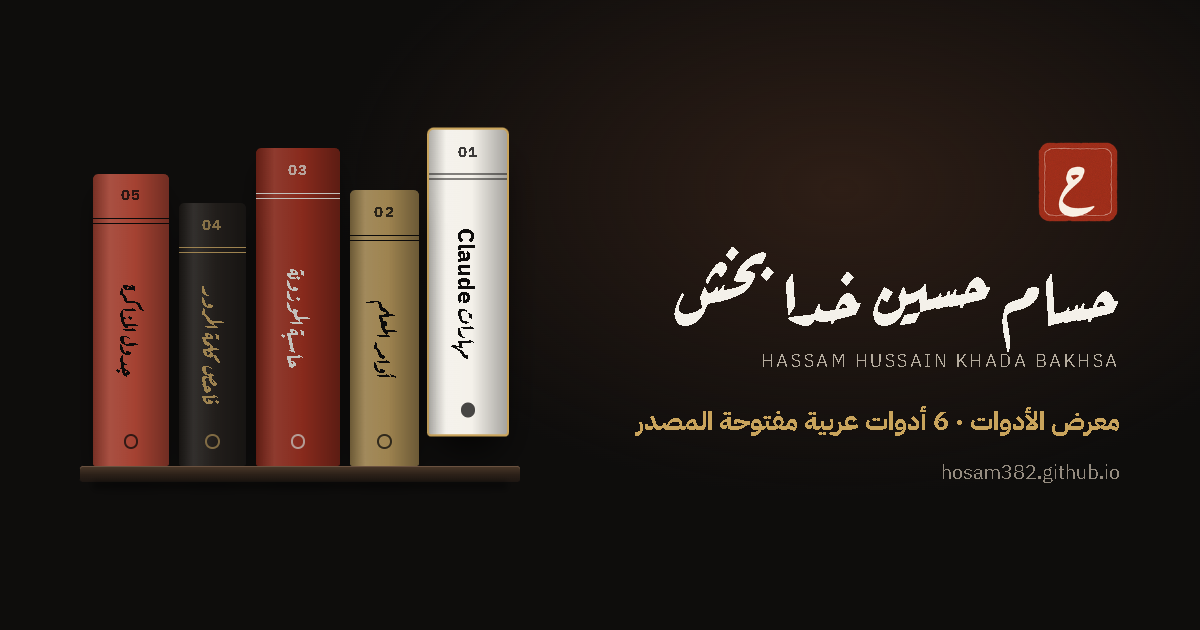
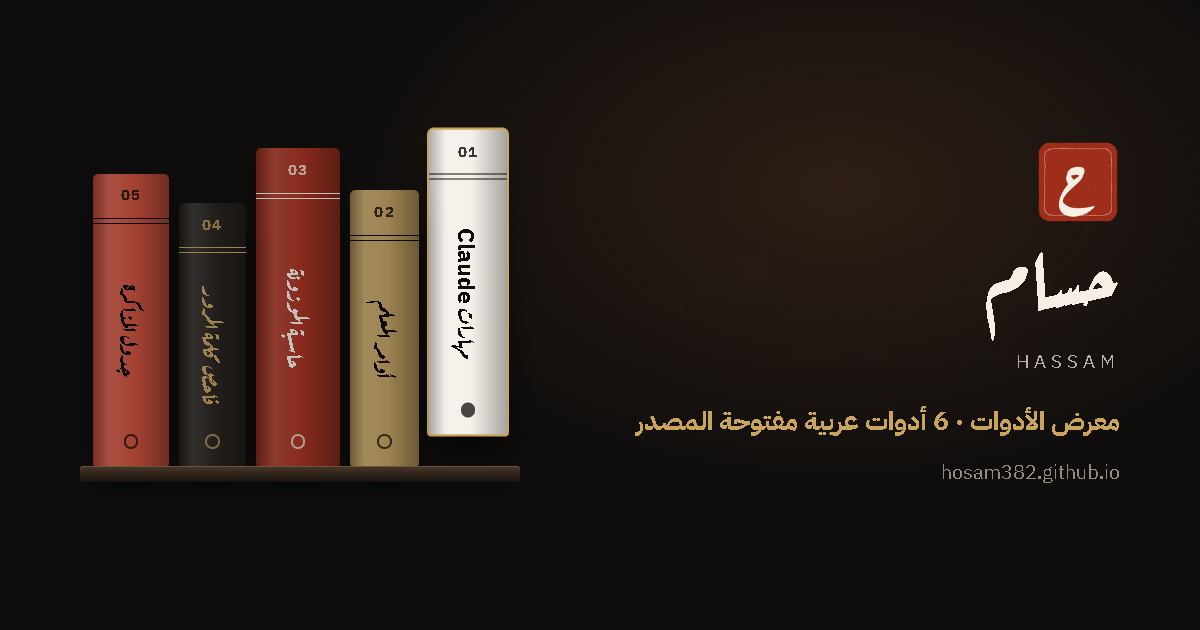
Show the name as Hassam only

Changed region(s): [[0.6475, 0.3921, 0.9558, 0.6032], [0.5858, 0.3921, 0.6475, 0.4825], [0.555, 0.4825, 0.5858, 0.5127]]

diff --git a/index.html b/index.html
@@ -4,10 +4,10 @@
 <meta charset="utf-8">
 <meta name="viewport" content="width=device-width,initial-scale=1">
 <title>أدوات حسام | Hassam's Tools</title>
-<meta name="description" content="معرض أدوات عربية مفتوحة المصدر من بناء حسام حسين خدا بخش: مهارات Claude، أوامر المعلم، حاسبة الموزونة، فاحص كلمة المرور، جدول المذاكرة، وأدوات النص العربي.">
+<meta name="description" content="معرض أدوات عربية مفتوحة المصدر من بناء حسام: مهارات Claude، أوامر المعلم، حاسبة الموزونة، فاحص كلمة المرور، جدول المذاكرة، وأدوات النص العربي.">
 <meta name="theme-color" content="#0e0d0c">
 <meta property="og:type" content="website">
-<meta property="og:title" content="أدوات حسام حسين خدا بخش">
+<meta property="og:title" content="أدوات حسام">
 <meta property="og:description" content="ست أدوات عربية مفتوحة المصدر، مجرّبة وتشتغل في جهازك.">
 <meta property="og:url" content="https://hosam382.github.io/">
 <meta property="og:image" content="https://hosam382.github.io/og.png">
@@ -32,8 +32,8 @@
 <section class="hero">
   <img class="stamp" src="seal.png" width="96" height="96" alt="">
   <p class="kick">معرض الأدوات <span lang="en">· Open-source tools</span></p>
-  <h1>حسام حسين خدا بخش</h1>
-  <p class="en" lang="en">Hassam Hussain Khada Bakhsa</p>
+  <h1>حسام</h1>
+  <p class="en" lang="en">Hassam</p>
   <p class="lead">أبني أدوات عربية صغيرة ومفتوحة المصدر، كل وحدة تحل مشكلة شفتها حولي: في الدراسة، وفي الفصل، وفي أمان الحسابات. <span class="hint">اختر كتاب من الرف وجرّب الأداة بنفسك.</span></p>
 </section>
 
@@ -190,7 +190,7 @@
 
 <footer class="foot">
   <img src="seal.png" width="60" height="60" alt="">
-  <p class="name">حسام حسين خدا بخش</p>
+  <p class="name">حسام</p>
   <p class="links"><a href="https://github.com/hosam382" lang="en">GitHub</a><a href="https://www.linkedin.com/in/hassam-hussain-khada-bakhsa-74416b434" lang="en">LinkedIn</a></p>
   <p class="ai">بنيت هذي الأدوات بمساعدة الذكاء الاصطناعي (Claude)، وراجعتها واختبرتها بنفسي.</p>
   <p class="c"><span lang="en">© 2026</span> · <a href="https://github.com/hosam382/hosam382.github.io">كود هذي الصفحة</a></p>

diff --git a/README.md b/README.md
@@ -1,5 +1,5 @@
 # أدوات حسام | Hassam's Tools
-**By [Hassam Hussain Khada Bakhsa](https://github.com/hosam382)**
+**By [Hassam](https://github.com/hosam382)**
 
 **الموقع:** https://hosam382.github.io/
 
